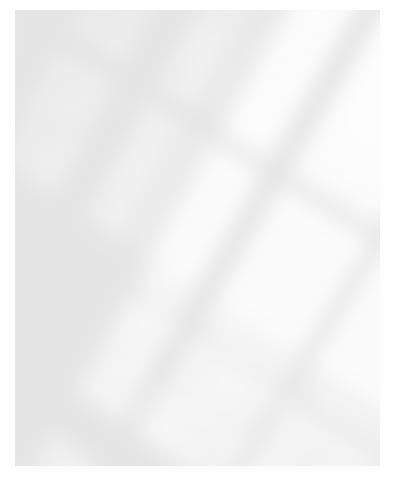
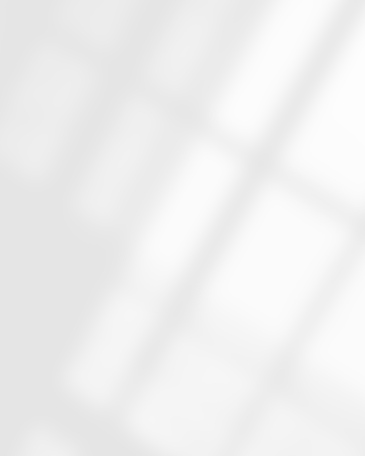
verify node ownership layout

diff --git a/pages/onboard/verify-node-ownership.js b/pages/onboard/verify-node-ownership.js
@@ -1,5 +1,9 @@
-import { useRouter } from "next/router";
-import { useState } from "react";
+import { useRouter } from 'next/router';
+import { useState } from 'react';
+import AppFooter from '../../components/Layouts/app-footer';
+import AppHeader from '../../components/Layouts/app-header';
+import OnboardStepper from '../../components/Onboard/OnboardStepper';
+import VerifyNodeOwnershipFirstStep from '../../components/Onboard/VerifyNodeOwnership/FirstStep';
 
 const VerifyNodeOwnership = () => {
   const [currentStep, setCurrentStep] = useState(1);
@@ -8,8 +12,60 @@ const VerifyNodeOwnership = () => {
 
   const totalSteps = 6;
 
-  return (
+  const handlePrev = () => {
+    if (currentStep === 1) {
+      router.back();
+    } else {
+      setCurrentStep(currentStep - 1);
+    }
+  };
 
+  const handleNext = () => {
+    if (currentStep === totalSteps) {
+      router.push('/onboard/submit-kyc');
+    } else {
+      setCurrentStep(currentStep + 1);
+    }
+  };
+
+  const getNextButtonTitle = () => {
+    if (currentStep === totalSteps) {
+      return 'Continue';
+    }
+
+    return 'Next';
+  };
+
+  const getStepContent = () => {
+    if (currentStep === 1) {
+      return <VerifyNodeOwnershipFirstStep />;
+    }
+
+    return <></>;
+  };
+
+  return (
+    <div className="flex justify-center min-h-screen">
+      <div className="w-full md:max-w-screen-2xl md:p-9 p-4 flex flex-col">
+        <AppHeader theme="dark" />
+        <div className="flex-grow md:flex md:items-center justify-center mt-12 md:mt-0">
+          <OnboardStepper
+            title="Verify Node Ownership"
+            description="Please choose Sign In if you have an existing account or Register if this is your first time here."
+            imageUrl="/images/img_ownership_blur.png"
+            currentStep={currentStep}
+            totalSteps={totalSteps}
+            stepContent={getStepContent()}
+            showNextButton
+            showContinueButton
+            continueButtonTitle={getNextButtonTitle()}
+            onPrev={handlePrev}
+            onNext={handleNext}
+          />
+        </div>
+        <AppFooter theme="dark" />
+      </div>
+    </div>
   );
 };
 

diff --git a/pages/onboard/esign-terms.js b/pages/onboard/esign-terms.js
@@ -25,7 +25,7 @@ const EsignTerms = () => {
 
   const handleNext = () => {
     if (currentStep === totalSteps) {
-      router.push('/onboard/veify-node-ownership');
+      router.push('/onboard/verify-node-ownership');
     } else {
       setCurrentStep(currentStep + 1);
     }
@@ -55,7 +55,7 @@ const EsignTerms = () => {
     return <EsignTermsSecondStep onContinue={handleNext} />;
   };
 
-  const getContinueButtonVisibility = () => {
+  const getNextButtonVisibility = () => {
     if (currentStep === 1) {
       return !!selectedDocument;
     }
@@ -69,11 +69,14 @@ const EsignTerms = () => {
         <AppHeader theme="dark" />
         <div className="flex-grow md:flex md:items-center justify-center mt-12 md:mt-0">
           <OnboardStepper
+            title="Esign Terms"
+            description="You must read and agree to the terms of service before continuing to the portal"
+            imageUrl="/images/img_signature_blur.png"
             currentStep={currentStep}
             totalSteps={totalSteps}
             stepContent={getStepContent()}
-            showNextButton={currentStep !== totalSteps && selectedDocument}
-            showContinueButton={getContinueButtonVisibility()}
+            showNextButton={getNextButtonVisibility()}
+            showContinueButton={getNextButtonVisibility()}
             continueButtonTitle={getNextButtonTitle()}
             onPrev={handlePrev}
             onNext={handleNext}

diff --git a/components/Onboard/OnboardStepper.js b/components/Onboard/OnboardStepper.js
@@ -1,4 +1,7 @@
 const OnboardStepper = ({
+  title,
+  description,
+  imageUrl,
   currentStep,
   totalSteps,
   stepContent,
@@ -43,7 +46,7 @@ const OnboardStepper = ({
     </div>
     <div className="w-full md:w-9/12">
       <p className="hidden md:block border-b border-gray pb-1 font-bold text-dark2">
-        Esign Terms
+        {title}
       </p>
       <div
         className="hidden md:block border-b border-primary border-2"
@@ -52,16 +55,13 @@ const OnboardStepper = ({
       <div className="mt-2 md:flex md:space-x-12">
         <div className="relative bg-white w-full md:w-auto">
           <img
-            src="/images/img_signature_blur.png"
+            src={imageUrl}
             alt="esign terms"
             className="w-full h-44 md:h-auto object-cover"
           />
           <div className="absolute bottom-0 mx-4 my-10 opacity-30">
-            <p className="text-2xl">Esign Terms</p>
-            <p className="text-sm text-dark1 mt-2">
-              You must read and agree to the terms of service before continuing
-              to the portal
-            </p>
+            <p className="text-2xl">{title}</p>
+            <p className="text-sm text-dark1 mt-2">{description}</p>
           </div>
         </div>
         {stepContent}

diff --git a/components/Onboard/VerifyNodeOwnership/FirstStep.js b/components/Onboard/VerifyNodeOwnership/FirstStep.js
@@ -1,0 +1,26 @@
+const VerifyNodeOwnershipFirstStep = ({ onSubmit }) => (
+  <div className="pt-8">
+    <p className="text-2.5xl">
+      Please enter the public address of your validator node and press submit
+    </p>
+    <p className="text-sm mt-2 text-dark1">
+      Clicking below will open up the hellosign document for capturing your
+      electronic signature
+    </p>
+    <div className="md:relative mt-12">
+      <input
+        type="text"
+        className="w-full h-16 text-xl px-7 pr-72 rounded-full shadow-md focus:outline-none"
+      />
+      <button
+        type="button"
+        className="md:absolute right-0 text-lg text-white w-full md:w-64 h-16 rounded-full bg-primary focus:outline-none mt-2 md:mt-0"
+        onClick={onSubmit}
+      >
+        Submit
+      </button>
+    </div>
+  </div>
+);
+
+export default VerifyNodeOwnershipFirstStep;
